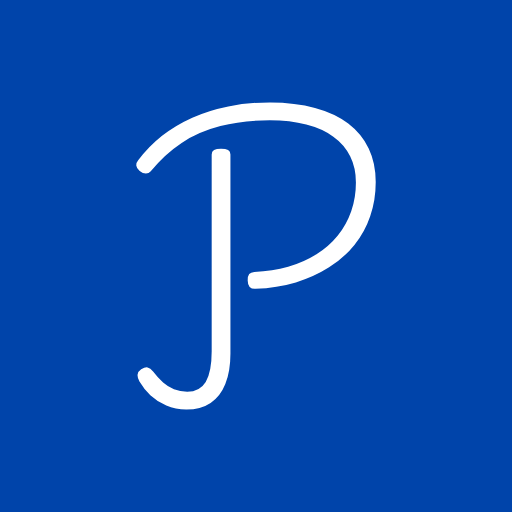
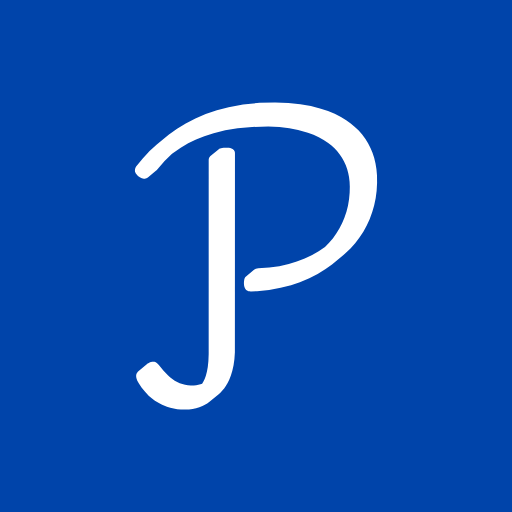
style: le P et les icônes à la plume, les boutons gardent leurs mots
Le P de la pastille et de toutes les icônes prend la même plume que le
logo, et l'image de partage porte l'étoile d'or sur le « i » ;
`make-icons.mjs` les régénère (#100). Les boutons de l'accueil montrent
toujours l'icône et le mot : trop étroite, la rangée passe à la ligne,
centrée. Le commentaire de HomeStart reprend les hauteurs mesurées.

diff --git a/src/components/home/Welcome.tsx b/src/components/home/Welcome.tsx
@@ -25,9 +25,9 @@ import styles from "./Welcome.module.css";
  * so removing the field from this page would otherwise take search out of the
  * app entirely for anybody signed out.
  *
- * **Each button is a mark and a word, and the word goes first when room runs
- * out** (`Welcome.module.css`): the label is hidden text then, so the link keeps
- * its name for a screen reader and its icon carries it for the eye.
+ * **Each button is a mark and a word, always.** A first visitor on a phone is
+ * the one who cannot guess what three bare marks lead to; when the row runs
+ * out of room it wraps, centred, and keeps its words.
  *
  * It carries no `?suivant=`: from `/` that would only name the fallback the
  * redirect already uses, and it would bounce somebody who is signed in out of
@@ -55,17 +55,17 @@ export function Welcome() {
           holds a way into the account as well as two ways into the course,
           and the two rows are never on screen together anyway. */}
       <nav className={styles.row} aria-label="Commencer">
-        <Link href="/sommaire" className={`button button-primary ${styles.action}`}>
+        <Link href="/sommaire" className="button button-primary">
           <ChapterIcon name="sommaire" />
-          <span className={styles.label}>Tout le cours</span>
+          Tout le cours
         </Link>
-        <Link href="/recherche" className={`button ${styles.action}`}>
+        <Link href="/recherche" className="button">
           <ChapterIcon name="recherche" />
-          <span className={styles.label}>Rechercher</span>
+          Rechercher
         </Link>
-        <Link href="/compte" className={`button ${styles.action}`}>
+        <Link href="/compte" className="button">
           <ChapterIcon name="compte" />
-          <span className={styles.label}>Se connecter</span>
+          Se connecter
         </Link>
       </nav>
     </div>

diff --git a/src/components/home/Welcome.module.css b/src/components/home/Welcome.module.css
@@ -1,10 +1,4 @@
-/* A container, so the three buttons ask how much room they have rather than how
-   wide the screen is: the sidebar, the rail and the drawer each leave the page
-   a different width at one viewport. **The width is stated**: a container
-   measures without its content, so one left to shrink to fit is 0 wide. */
 .welcome {
-  container-type: inline-size;
-  width: 100%;
   display: flex;
   flex-direction: column;
   /* Tighter than the page's own 1.25rem: the sentence and the row it explains
@@ -27,28 +21,7 @@
   display: flex;
   flex-wrap: wrap;
   justify-content: center;
-  /* The pills' own gap, because this row stands where they stand. */
+  /* The pills' own gap, because this row stands where they stand. Too narrow
+     for the three, the row wraps and stays centred: the words never go. */
   gap: var(--space-6);
-}
-
-/* Under the width the three need on one line with their words, the words go
-   and the marks stay: a third button wrapped alone reads as a second row of
-   choices. The row is 27.6rem with Inter (measured); 28rem leaves the fallback
-   face a little room. The word is hidden the way `.visually-hidden` hides it, so the
-   link keeps its name; the button squares up around its mark and stays well
-   over `--target-min`. */
-@container (max-width: 28rem) {
-  .action.action {
-    padding: var(--space-8) var(--space-12);
-  }
-
-  .label {
-    position: absolute;
-    width: 1px;
-    height: 1px;
-    margin: -1px;
-    overflow: hidden;
-    clip-path: inset(50%);
-    white-space: nowrap;
-  }
 }

diff --git a/src/components/home/HomeStart.module.css b/src/components/home/HomeStart.module.css
@@ -5,8 +5,9 @@
    The floor is the signed-in view measured, not a round number: the field is
    67px, « La suite » reserves 1.6rem, the pills take 84px, and two of the
    page's 1.25rem gaps sit between them — 217px, so 13.6rem. The welcome is
-   108px (134 on a phone, where the blurb takes a third line) and sits at the
-   top of the box rather than centred in it: the blurb and the field then start
+   106px (176 on a phone, where the blurb takes a third line and the third
+   button wraps; measured 2026-10-15) and sits at the top of the box rather
+   than centred in it: the blurb and the field then start
    at the same line, so the swap has a fixed edge and the spare height falls
    where nothing is drawn. **Measure again
    if the field, the pills or « La suite » change height**: the point of the

diff --git a/docs/decisions.md b/docs/decisions.md
@@ -1367,9 +1367,9 @@ outline ten times a hair apart, and ten half-transparent edges add up to an opaq
 curve came out stepped on a phone. The dot of the « i » is a gold star, a second mask layer over
 `--star` (`.logo`). **Chosen against the cover's lettering**, which the maintainer asked about:
 the title is Gallimard's logotype and « Le Petit Prince » the estate's trademark, and with a name
-that already echoes it, the same letters would read as a licensed product. The P badge and the
-icons keep the monoline P until they are regenerated (`make-icons.mjs`), and so does the share
-image.
+that already echoes it, the same letters would read as a licensed product. The P of the badge and
+every icon (`logo-mark.svg`) takes the same pen at its own scale, and `make-icons.mjs` adds the
+gold star to the share card, the one place the logo is drawn outside the page.
 
 **The mood, never the drawings.** Saint-Exupéry is not public domain in France (#60), and the
 lettering and the covers are Gallimard's. The star and the planet are drawn for the course

diff --git a/AGENTS.md b/AGENTS.md
@@ -208,9 +208,9 @@ day, night blue by night, text in blue ink in both.
   below the drawer breakpoint, in `--surface-app`.
 - **Brand glyph = CSS mask over a token.** The drawn wordmark is `.logo` (#100: a broad-nib
   `logo.svg`, the « i »'s dot a gold star placed against its viewBox), the home page's `<h1>` and
-  the open sidebar's head; the rail shows the P badge instead. The link's name is
-  hidden text, never the drawing. Icons come from `node scripts/make-icons.mjs` — never
-  hand-edit; opaque; only the maskable pays the safe zone.
+  the open sidebar's head; the rail shows the P badge instead (`logo-mark.svg`, the same pen). The
+  link's name is hidden text, never the drawing. Icons come from `node scripts/make-icons.mjs` —
+  never hand-edit; opaque; only the maskable pays the safe zone.
 - **The shell's foot is one row** (#63): account control and footer share `--shell-foot-h`.
 - **Never set `metadata.icons`** — it drops `icon.svg`.
 

diff --git a/.claude/agents/design-system.md b/.claude/agents/design-system.md
@@ -415,8 +415,7 @@ route answering 200 on the maintainer's dev server. **You run no build and start
 - `flex: 0` is `flex: 0 1 0%` — a zero basis that collapses images. Write `flex: 0 0 auto`.
 - **A `container-type: inline-size` box states its width.** It is measured without its content, so
   one left to shrink to fit (a flex item with `margin: auto`, a centred child) is 0 wide and every
-  `@container (max-width)` under it fires. `Welcome`'s buttons switch to icons on their room, not
-  the screen's: the welcome says `width: 100%`.
+  `@container (max-width)` under it fires.
 - A **surface** token as a text colour inverts in dark mode. Ink on a filled accent is
   `--text-on-accent` (`--text-on-success` on green), and neither is a constant: `--accent` is light
   in dark mode, so white on it drops from 8.7:1 to about 3:1. Check filled states in both themes on
